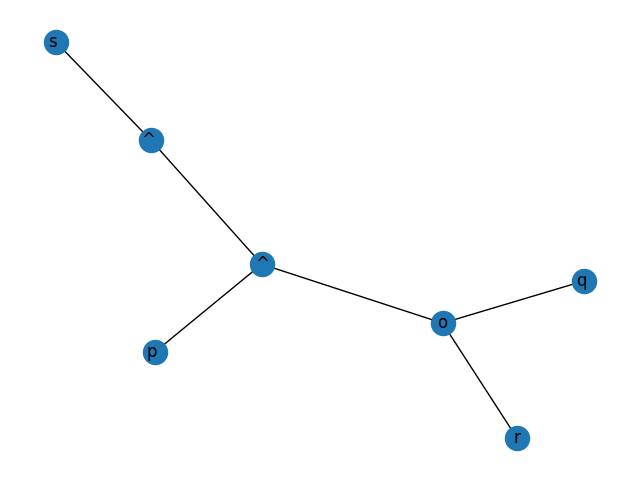
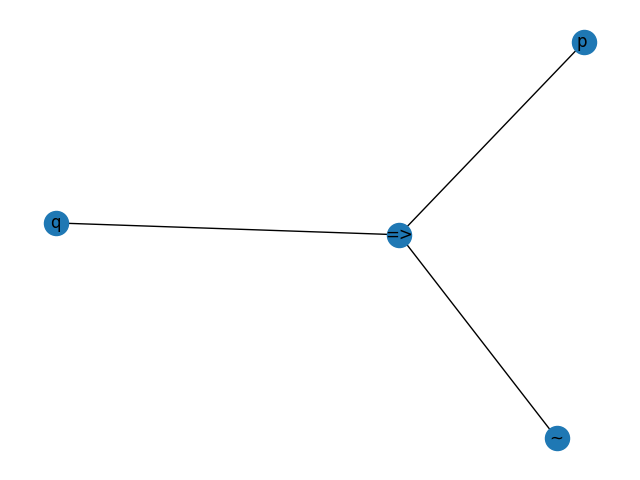
Feat: negative

diff --git a/lexer.py b/lexer.py
@@ -54,8 +54,8 @@ lexer = lex.lex()
 
 precedence = (
     ('left', 'OR' ),
-    ( 'left', 'IMPLICATION' ),
     ( 'left', 'AND' ),
+    ( 'left', 'IMPLICATION' ),
     ( 'left', 'NEGATIVE' ),
 
 )
@@ -67,8 +67,29 @@ def p_neg3( p ) :
 
 def p_neg2( p ) :
     'expr : NEGATIVE expr'
-    g.add_edge( p[1], p[2])
-    p[0] = p[1]+p[2]
+    # g.add_edge( p[1], p[2])
+    # print(p[1], 'neg' , p[2])
+    simbol =  p[1]
+    find = True
+    print(p[2])
+    # print(list(g.nodes()), 'desde or')
+    # print(p[2] in list(g.nodes()))
+    while find:
+        if simbol in list(g.nodes()):
+            simbol = simbol + ' '
+        else:
+            find = False
+    if p[2] in contador:
+        contador[p[2]] += 1
+        g.add_edge(simbol, p[2] + contador[p[2]] * ' ')
+    elif p[2][1] in operators:
+        g.add_edge(p[1], p[2][1])
+    elif p[2][1] + p[2][2] in operators:
+        g.add_edge(p[1], p[2][1] + p[2][2])
+    elif p[2][1] + p[2][2] + p[2][3] in operators:
+        g.add_edge(p[1], p[2][1] + p[2][2] + p[2][3])
+    # p[0] = p[1]+ p[2]
+    p[0] = p[1]+ p[2]
 
 def p_par(p):
     'expr : LPAREN expr RPAREN'
@@ -81,13 +102,18 @@ def p_andexp(p):
     find = True
     # print(list(g.nodes()), 'desde or')
     # print(p[2] in list(g.nodes()))
+    # print('ENTRO AL IF', p[1], ' ', p[1][1], ' ',p[1][1] in operators , p[2], ' ', p[3])
     while find:
         if simbol in list(g.nodes()):
             simbol = simbol + ' '
         else:
             find = False
-    try:
-        if p[1][1] in operators:
+    try: # siguiente simbolo esta del lado izquierdo
+        if (p[1].find('~')) != -1:
+            neg = p[1][0]
+            g.add_edge(p[2],neg)
+            g.add_edge(p[2],p[3])
+        elif p[1][1] in operators:
             print("primer IF AND")
             if p[3] in contador:
                 contador[p[3]] += 1
@@ -96,10 +122,23 @@ def p_andexp(p):
             print(p[3] in contador)
             # g.add_edge(p[2],p[1][1])
             g.add_edge(simbol,p[1][1])
+        elif p[1][1] + p[1][2] in operators:
+            print("primer IF AND")
+            if p[3] in contador:
+                contador[p[3]] += 1
+                # g.add_edge(p[2],p[3] + (contador[p[3]] * ' '))
+                g.add_edge(simbol,p[3] + (contador[p[3]] * ' '))
+            print(p[3] in contador)
+            # g.add_edge(p[2],p[1][1])
+            g.add_edge(simbol,p[1][1] + p[1][2])
 
     except:
-        try:
-            if p[3][1] in operators:
+        try: # cuando el siguiente simbolo estaba del lado derecho
+            if p[3].find('~') != -1:
+                neg = p[3][0]
+                g.add_edge(p[2], p[1])
+                g.add_edge(p[2], neg)
+            elif p[3][1] in operators:
 
                 print("segundo IF AND")
 
@@ -108,6 +147,15 @@ def p_andexp(p):
                 # g.add_edge(p[2],p[3][1])
                 # g.add_edge(p[2],p[1] + (contador[p[1]] * ' '))
                 g.add_edge(simbol,p[3][1])
+                g.add_edge(simbol,p[1] + (contador[p[1]] * ' '))
+            elif p[3][1] + p[3][2] in operators:
+                print("segundo IF AND")
+
+                contador[p[1]] += 1
+                print(p[3] in contador)
+                # g.add_edge(p[2],p[3][1] + p[3][2])
+                # g.add_edge(p[2],p[1] + (contador[p[1]] * ' '))
+                g.add_edge(simbol,p[3][1] + p[3][2])
                 g.add_edge(simbol,p[1] + (contador[p[1]] * ' '))
         except:
                 print(contador,"r IF AND")
@@ -147,6 +195,16 @@ def p_orexp(p):
             g.add_edge(simbol,p[1][1])
             g.add_edge(simbol, new)
             print(contador[p[3]])
+        elif p[1][1] + p[1][2] in operators:
+            print(p[3] in contador,'primer if or')
+            contador[p[3]] += 1
+            print(contador, "primer if OR")
+            new = p[3] + (contador[p[3]] * ' ')
+            # g.add_edge(p[2],p[1][1])
+            # g.add_edge(p[2], new)
+            g.add_edge(simbol,p[1][1] + p[1][2])
+            g.add_edge(simbol, new)
+            print(contador[p[3]])
     except:
         try:
             if p[3][1] in operators:
@@ -155,6 +213,13 @@ def p_orexp(p):
                 # g.add_edge(p[2],p[3][1])
                 # g.add_edge(p[2],p[1] + (2 * ' '))
                 g.add_edge(simbol,p[3][1])
+                g.add_edge(simbol,p[1] + (2 * ' '))
+            elif p[3][1] + p[3][2] in operators:
+                print("segundo IF OR")
+                print(p[3] in contador)
+                # g.add_edge(p[2],p[3][1])
+                # g.add_edge(p[2],p[1] + (2 * ' '))
+                g.add_edge(simbol,p[3][1] + p[3][2])
                 g.add_edge(simbol,p[1] + (2 * ' '))
         except:
                 print("ultimo except OR")
@@ -168,9 +233,63 @@ def p_orexp(p):
 
 def p_impli(p):
     'expr : expr IMPLICATION expr'
-    g.add_edge(p[2],p[1]+' ')
-    g.add_edge(p[2],p[3]+' ')
-    g.add_edge(p[2]+' ',p[1]+p[2]+p[3])
+    # g.add_edge(p[2],p[1]+' ')
+    # g.add_edge(p[2],p[3]+' ')
+    # g.add_edge(p[2]+' ',p[1]+p[2]+p[3])
+    #g.add_edge(p[2],p[1])
+    simbol =  p[2]
+    find = True
+    # print(list(g.nodes()), 'desde or')
+    # print(p[2] in list(g.nodes()))
+    while find:
+        if simbol in list(g.nodes()):
+            simbol = simbol + ' '
+        else:
+            find = False
+    try:
+        if p[1][1] in operators:
+            print("primer IF IMP")
+            if p[3] in contador:
+                contador[p[3]] += 1
+                # g.add_edge(p[2],p[3] + (contador[p[3]] * ' '))
+                g.add_edge(simbol,p[3] + (contador[p[3]] * ' '))
+            print(p[3] in contador)
+            # g.add_edge(p[2],p[1][1])
+            g.add_edge(simbol,p[1][1])
+        elif p[1][1] + p[1][2] in operators:
+            print(p[3] in contador,'primer if IMP')
+            contador[p[3]] += 1
+            print(contador, "primer if IMP")
+            new = p[3] + (contador[p[3]] * ' ')
+            # g.add_edge(p[2],p[1][1])
+            # g.add_edge(p[2], new)
+            g.add_edge(simbol,p[1][1] + p[1][2])
+            g.add_edge(simbol, new)
+            print(contador[p[3]])
+    except:
+        try:
+            if p[3][1] in operators:
+                print("segundo IF IMP")
+                print(p[3] in contador)
+                # g.add_edge(p[2],p[3][1])
+                # g.add_edge(p[2],p[1] + (2 * ' '))
+                g.add_edge(simbol,p[3][1])
+                g.add_edge(simbol,p[1] + (2 * ' '))
+            elif p[3][1] + p[3][2] in operators:
+                print("segundo IF IMP")
+                print(p[3] in contador)
+                # g.add_edge(p[2],p[3][1])
+                # g.add_edge(p[2],p[1] + (2 * ' '))
+                g.add_edge(simbol,p[3][1] + p[3][2])
+                g.add_edge(simbol,p[1] + (2 * ' '))
+        except:
+                print("ultimo except IMP")
+                # g.add_edge(p[2],p[1]+' ')
+                # g.add_edge(p[2],p[3])
+                g.add_edge(simbol,p[1]+' ')
+                g.add_edge(simbol,p[3])
+
+    p[0] = p[1]+p[2]+p[3]
     p[0] = p[1]+p[2]+p[3]
 
 def p_dimpli(p):
@@ -205,7 +324,8 @@ parser = yacc.yacc()
 global g
 g = nx.Graph()
 
-res = parser.parse("(p^(qor))^s")
+#(po(q^r))os
+res = parser.parse("~~~q")
 print(list(g.nodes()))
 
 

diff --git a/parsetab.py b/parsetab.py
@@ -6,9 +6,9 @@ _tabversion = '3.10'
 
 _lr_method = 'LALR'
 
-_lr_signature = 'leftORleftIMPLICATIONleftANDleftNEGATIVEAND COMMA CONST DIMPLICATION IMPLICATION LETTERS LPAREN NEGATIVE OR RPARENexpr : LETTERSexpr : NEGATIVE exprexpr : LPAREN expr RPARENexpr : expr AND exprexpr : expr OR exprexpr : expr IMPLICATION exprexpr : expr DIMPLICATION exprexpr : expr COMMA exprexpr : COMMAexpr : CONST'
+_lr_signature = 'leftORleftANDleftIMPLICATIONleftNEGATIVEAND COMMA CONST DIMPLICATION IMPLICATION LETTERS LPAREN NEGATIVE OR RPARENexpr : LETTERSexpr : NEGATIVE exprexpr : LPAREN expr RPARENexpr : expr AND exprexpr : expr OR exprexpr : expr IMPLICATION exprexpr : expr DIMPLICATION exprexpr : expr COMMA exprexpr : COMMAexpr : CONST'
     
-_lr_action_items = {'LETTERS':([0,3,4,7,8,9,10,11,],[2,2,2,2,2,2,2,2,]),'NEGATIVE':([0,3,4,7,8,9,10,11,],[3,3,3,3,3,3,3,3,]),'LPAREN':([0,3,4,7,8,9,10,11,],[4,4,4,4,4,4,4,4,]),'COMMA':([0,1,2,3,4,5,6,7,8,9,10,11,12,13,14,15,16,17,18,19,],[5,11,-1,5,5,-9,-10,5,5,5,5,5,-2,11,-4,-5,-6,11,11,-3,]),'CONST':([0,3,4,7,8,9,10,11,],[6,6,6,6,6,6,6,6,]),'$end':([1,2,5,6,12,14,15,16,17,18,19,],[0,-1,-9,-10,-2,-4,-5,-6,-7,-8,-3,]),'AND':([1,2,5,6,12,13,14,15,16,17,18,19,],[7,-1,-9,-10,-2,7,-4,7,7,7,7,-3,]),'OR':([1,2,5,6,12,13,14,15,16,17,18,19,],[8,-1,-9,-10,-2,8,-4,-5,-6,8,8,-3,]),'IMPLICATION':([1,2,5,6,12,13,14,15,16,17,18,19,],[9,-1,-9,-10,-2,9,-4,9,-6,9,9,-3,]),'DIMPLICATION':([1,2,5,6,12,13,14,15,16,17,18,19,],[10,-1,-9,-10,-2,10,-4,-5,-6,10,10,-3,]),'RPAREN':([2,5,6,12,13,14,15,16,17,18,19,],[-1,-9,-10,-2,19,-4,-5,-6,-7,-8,-3,]),}
+_lr_action_items = {'LETTERS':([0,3,4,7,8,9,10,11,],[2,2,2,2,2,2,2,2,]),'NEGATIVE':([0,3,4,7,8,9,10,11,],[3,3,3,3,3,3,3,3,]),'LPAREN':([0,3,4,7,8,9,10,11,],[4,4,4,4,4,4,4,4,]),'COMMA':([0,1,2,3,4,5,6,7,8,9,10,11,12,13,14,15,16,17,18,19,],[5,11,-1,5,5,-9,-10,5,5,5,5,5,-2,11,-4,-5,-6,11,11,-3,]),'CONST':([0,3,4,7,8,9,10,11,],[6,6,6,6,6,6,6,6,]),'$end':([1,2,5,6,12,14,15,16,17,18,19,],[0,-1,-9,-10,-2,-4,-5,-6,-7,-8,-3,]),'AND':([1,2,5,6,12,13,14,15,16,17,18,19,],[7,-1,-9,-10,-2,7,-4,7,-6,7,7,-3,]),'OR':([1,2,5,6,12,13,14,15,16,17,18,19,],[8,-1,-9,-10,-2,8,-4,-5,-6,8,8,-3,]),'IMPLICATION':([1,2,5,6,12,13,14,15,16,17,18,19,],[9,-1,-9,-10,-2,9,9,9,-6,9,9,-3,]),'DIMPLICATION':([1,2,5,6,12,13,14,15,16,17,18,19,],[10,-1,-9,-10,-2,10,-4,-5,-6,10,10,-3,]),'RPAREN':([2,5,6,12,13,14,15,16,17,18,19,],[-1,-9,-10,-2,19,-4,-5,-6,-7,-8,-3,]),}
 
 _lr_action = {}
 for _k, _v in _lr_action_items.items():
@@ -27,14 +27,14 @@ for _k, _v in _lr_goto_items.items():
 del _lr_goto_items
 _lr_productions = [
   ("S' -> expr","S'",1,None,None,None),
-  ('expr -> LETTERS','expr',1,'p_neg3','lexer.py',50),
-  ('expr -> NEGATIVE expr','expr',2,'p_neg2','lexer.py',55),
-  ('expr -> LPAREN expr RPAREN','expr',3,'p_par','lexer.py',60),
-  ('expr -> expr AND expr','expr',3,'p_andexp','lexer.py',65),
-  ('expr -> expr OR expr','expr',3,'p_orexp','lexer.py',72),
-  ('expr -> expr IMPLICATION expr','expr',3,'p_impli','lexer.py',80),
-  ('expr -> expr DIMPLICATION expr','expr',3,'p_dimpli','lexer.py',86),
-  ('expr -> expr COMMA expr','expr',3,'p_comma','lexer.py',92),
-  ('expr -> COMMA','expr',1,'p_comma1','lexer.py',98),
-  ('expr -> CONST','expr',1,'p_const','lexer.py',103),
+  ('expr -> LETTERS','expr',1,'p_neg3','lexer.py',64),
+  ('expr -> NEGATIVE expr','expr',2,'p_neg2','lexer.py',69),
+  ('expr -> LPAREN expr RPAREN','expr',3,'p_par','lexer.py',74),
+  ('expr -> expr AND expr','expr',3,'p_andexp','lexer.py',79),
+  ('expr -> expr OR expr','expr',3,'p_orexp','lexer.py',127),
+  ('expr -> expr IMPLICATION expr','expr',3,'p_impli','lexer.py',170),
+  ('expr -> expr DIMPLICATION expr','expr',3,'p_dimpli','lexer.py',215),
+  ('expr -> expr COMMA expr','expr',3,'p_comma','lexer.py',221),
+  ('expr -> COMMA','expr',1,'p_comma1','lexer.py',227),
+  ('expr -> CONST','expr',1,'p_const','lexer.py',232),
 ]
